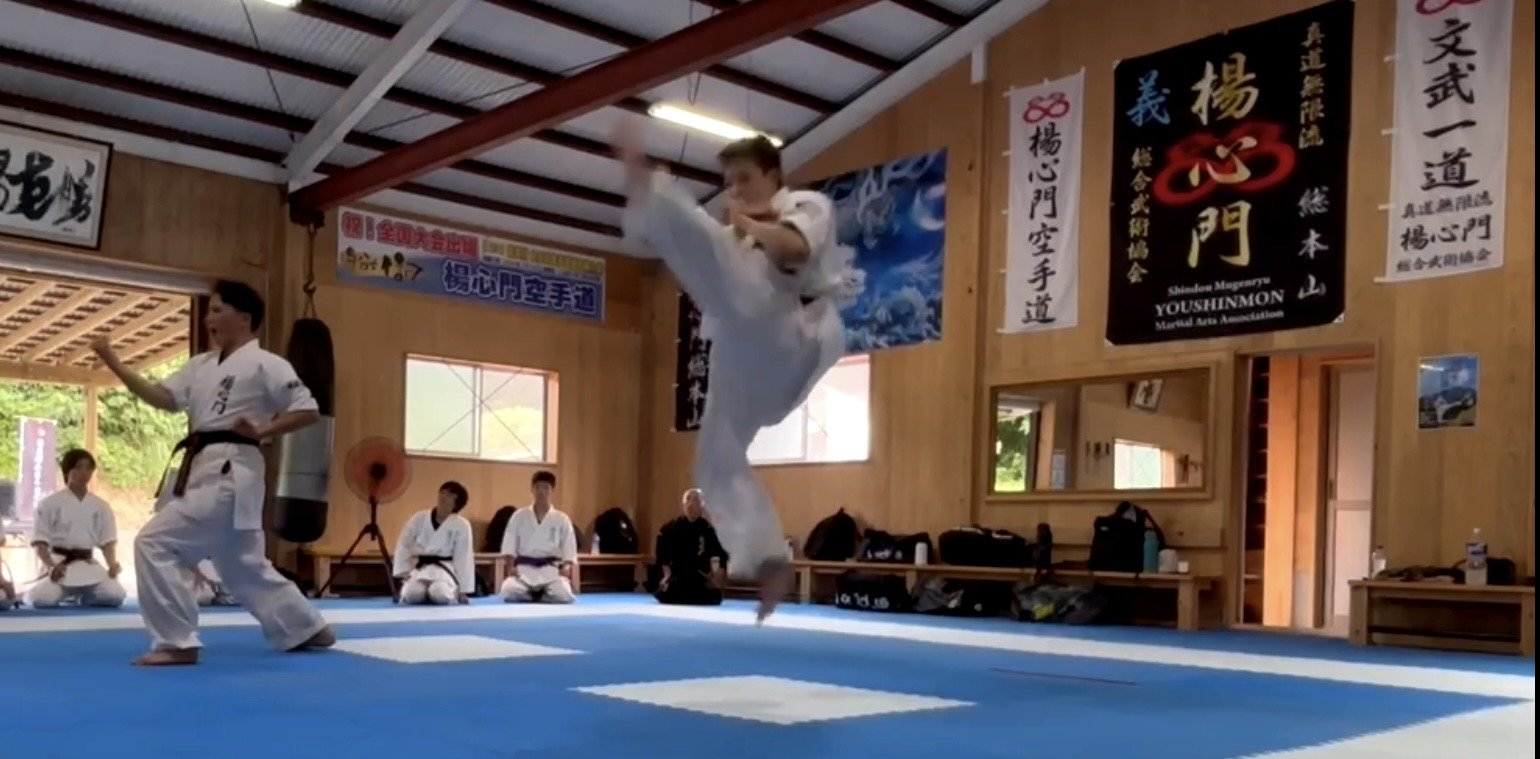
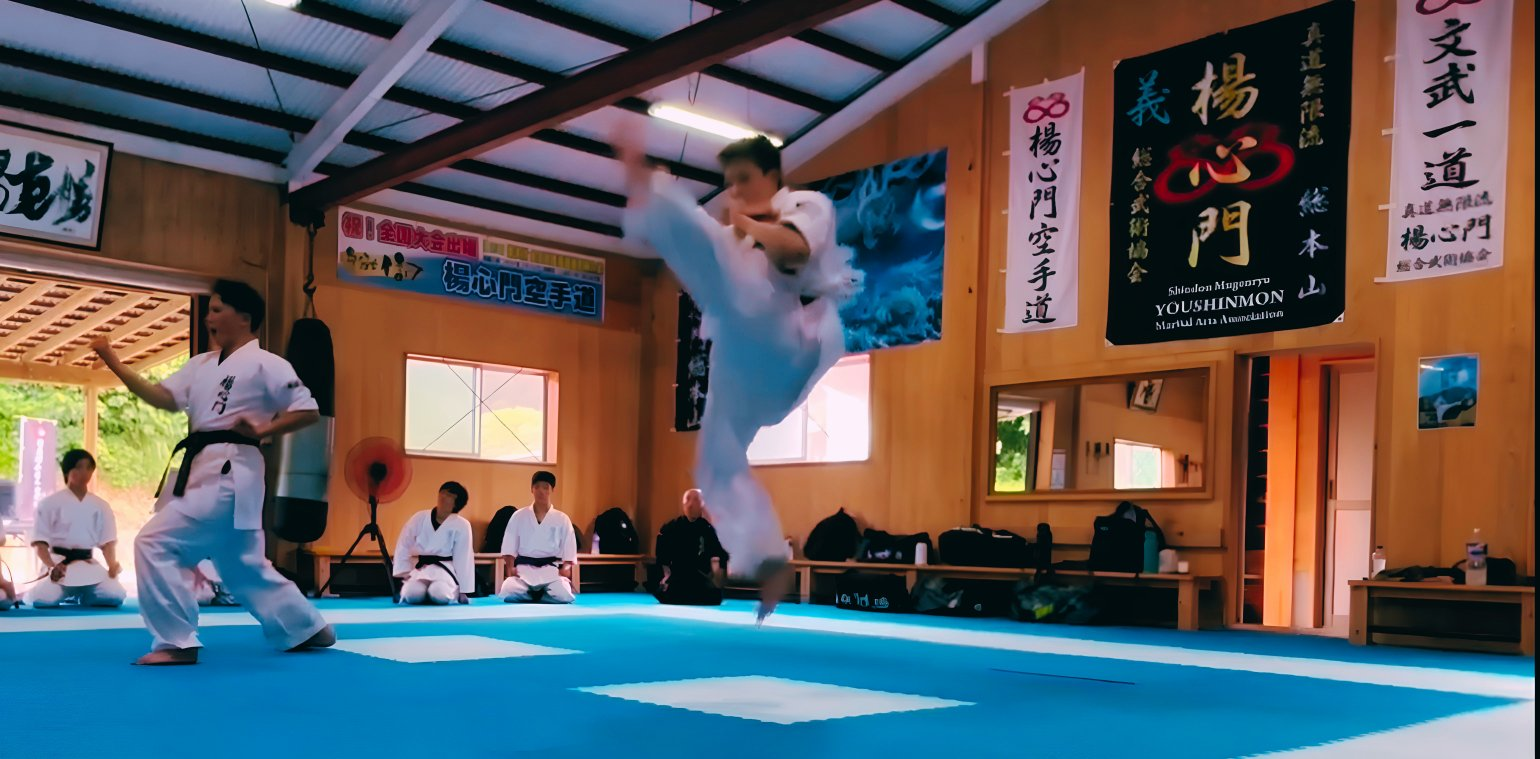
content: 黒帯研修会の写真をレタッチ版に差し替え
サイ術・組手の写真をレターボックス除去済みのレタッチ版に更新し、消防署指導の写真を腕固定の1枚から心肺蘇生講習の2枚に差し替え。末尾の一文も削除。

diff --git a/news/2026-07-05-kurobi-kenshukai.html b/news/2026-07-05-kurobi-kenshukai.html
@@ -88,7 +88,10 @@
             </p>
           </div>
 
-          <img class="article__photo" src="../assets/images/gallery/kenshukai/kenshukai-2026-shobo.jpg" alt="消防署の指導のもと応急手当を学ぶ先生方">
+          <div class="article__gallery">
+            <img src="../assets/images/gallery/kenshukai/kenshukai-2026-shobo-1.jpg" alt="消防署の指導のもと胸骨圧迫を学ぶ先生方">
+            <img src="../assets/images/gallery/kenshukai/kenshukai-2026-shobo-2.jpg" alt="消防署の指導員から説明を受ける先生方">
+          </div>
 
           <!-- サイ術 第2回研修 -->
           <div class="article__callout">
